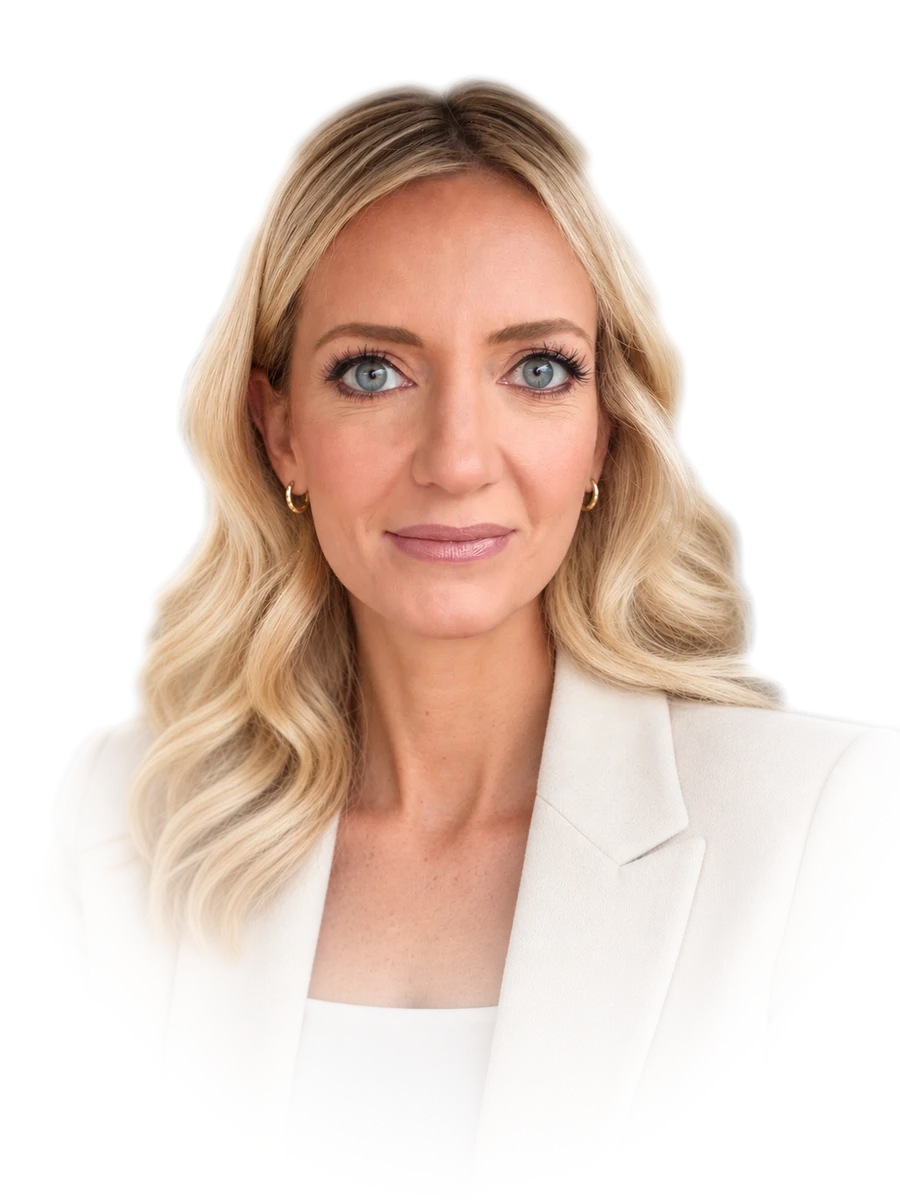
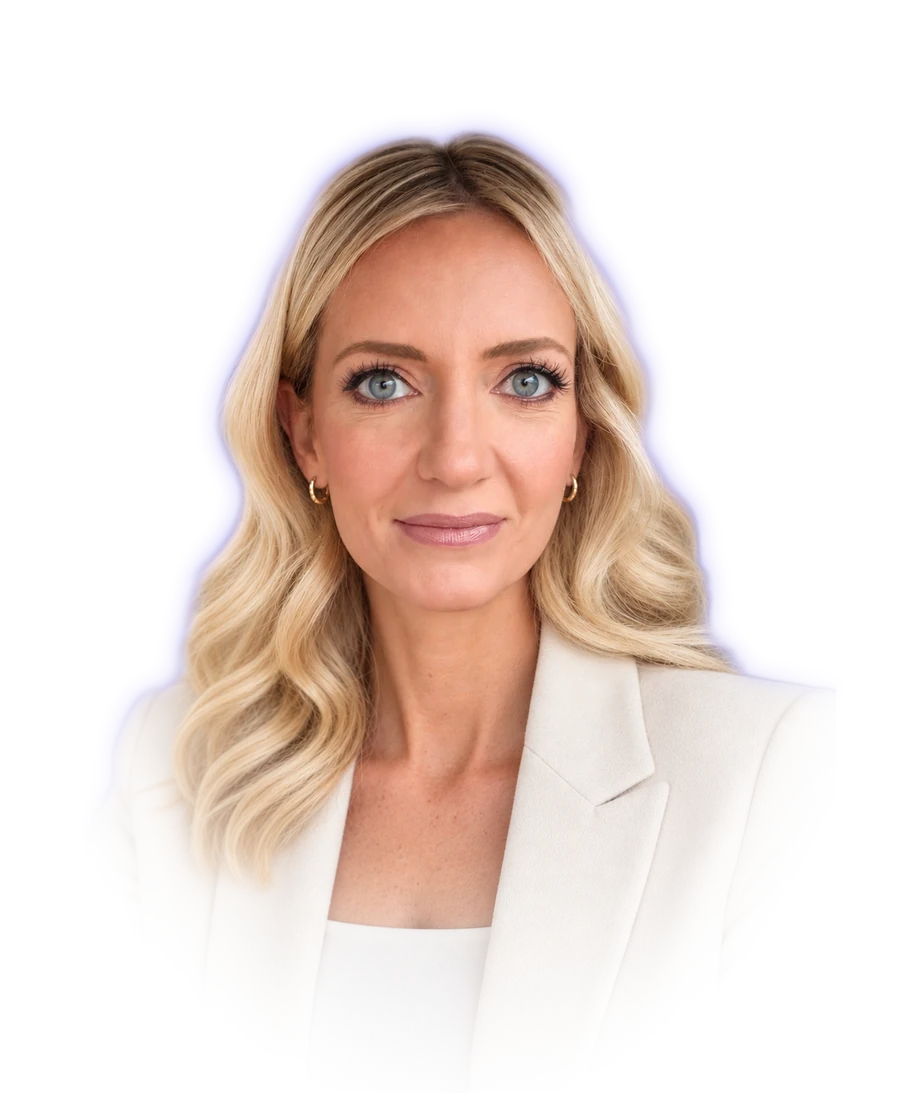
commit

Changed region(s): [[0.0933, 0.0622, 0.8711, 0.871], [0.7156, 0.6844, 0.7467, 0.7155], [0.6844, 0.7155, 0.7156, 0.7466]]

diff --git a/index.html b/index.html
@@ -132,12 +132,12 @@
   @media (min-width:960px){
     .holo{
       display:block;position:absolute;z-index:0;right:var(--gut);top:clamp(-40px,-3vw,-10px);
-      width:clamp(240px,22vw,340px);aspect-ratio:3/4;pointer-events:none;
+      width:clamp(260px,24vw,370px);aspect-ratio:900/1093;pointer-events:none;
       animation:holo-float 7s ease-in-out infinite;
     }
     .holo-glow{
       position:absolute;inset:4% -12% 10%;border-radius:50%;
-      background:radial-gradient(ellipse at 50% 42%,rgba(163,155,240,.42) 0%,rgba(60,130,200,.2) 42%,rgba(9,9,12,0) 70%);
+      background:radial-gradient(ellipse at 50% 42%,rgba(163,155,240,.38) 0%,rgba(110,90,210,.22) 42%,rgba(9,9,12,0) 70%);
       filter:blur(34px);
     }
     .holo-frame{position:absolute;inset:0}
@@ -393,7 +393,7 @@
     <div class="wrap hero-in">
       <div class="holo" aria-hidden="true">
         <div class="holo-glow"></div>
-        <div class="holo-frame"><img src="img/headshot.webp" alt="" width="900" height="1200" fetchpriority="high" decoding="async"></div>
+        <div class="holo-frame"><img src="img/headshot.webp?v=2" alt="" width="900" height="1093" fetchpriority="high" decoding="async"></div>
       </div>
       <h1 data-px="-0.06">Product design for complex <em>enterprise and healthcare</em> software.</h1>
       <div class="hero-lede" data-px="0.04">
